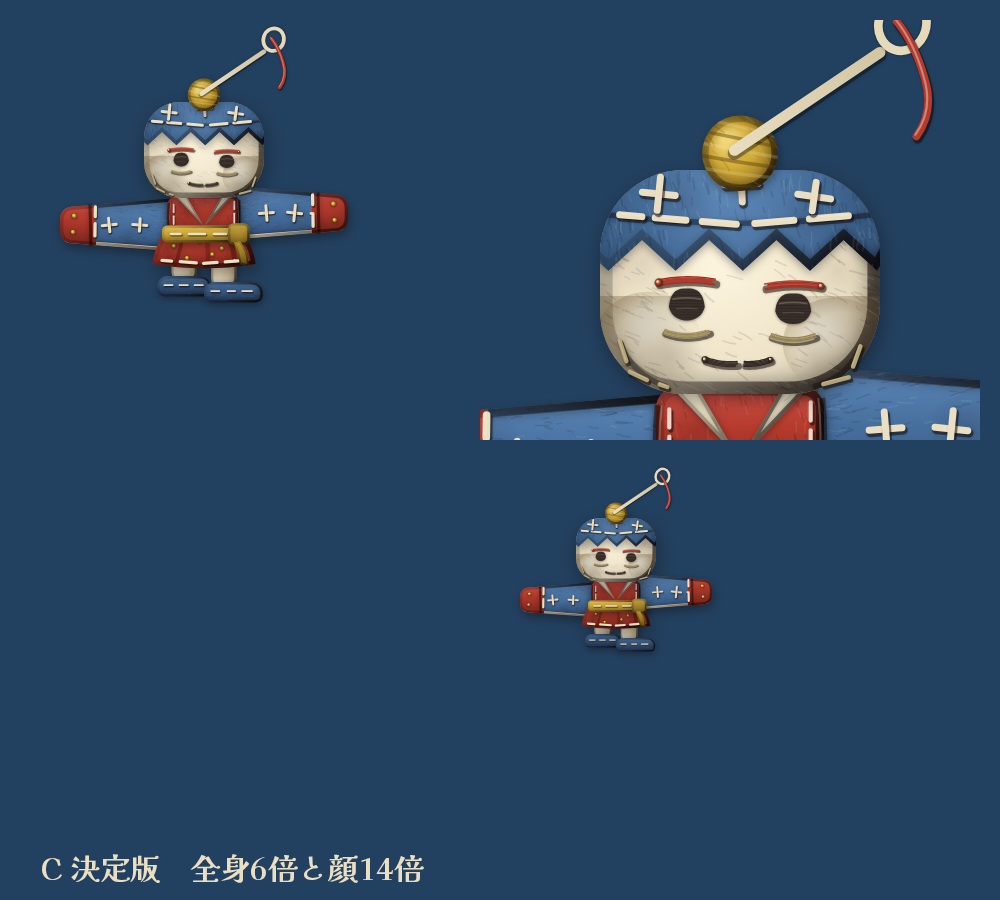
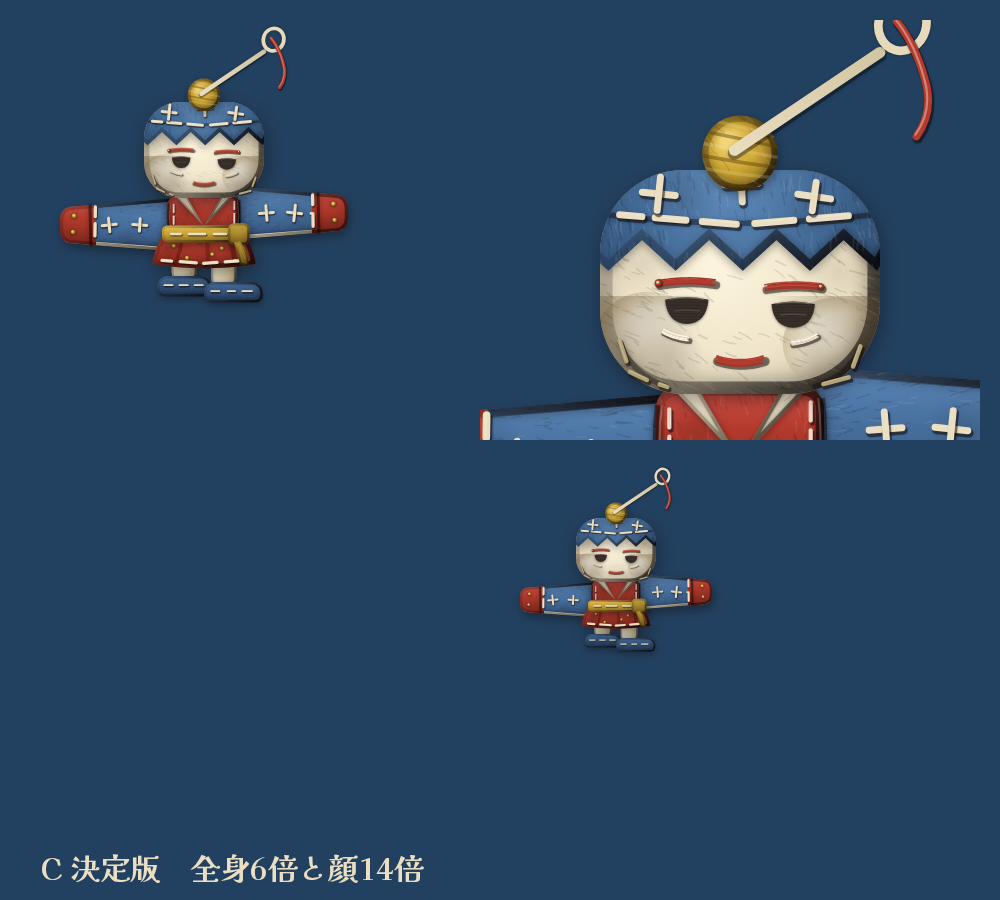
title-01: return face to owner's C with finishing fixes (revision 5)
Claude-Session: https://claude.ai/code/session_01BwCev4yJoSeeksS9CS27y6

diff --git a/studio/design-concept/notes.md b/studio/design-concept/notes.md
@@ -79,7 +79,7 @@
 - **最大のリスクは解像度の混在が安っぽく見えること**: 今回の scene-hires.png では、イガ・コナは「ピクトグラムの世界に実物のぬいぐるみが置かれた」ギャップが愛らしく読めた。ただし、ツギは袖の暗い棒が大きく、身体の布の質感が背景のドット面と並ぶと少し重い。避ける方法: (1) 影の向きと色を背景と統一する（足もとの接地影は藍濃の半透明）、(2) キャラは背景より彩度は同じで質感だけ上げ、背景に影を落とさない（ぬいが浮いて見える）、(3) 境界は一つの規則で決める（§1.6: 触れる・取れる・当たる物はぬいぐるみ層、触れない物・HUD の札と札の中のアイコンはピクト。改訂5で糸玉・つづら・ばねも高解像度にし、HUD の糸玉アイコンはピクトにそろえた）、(4) 敵がやられる演出は触れる物なのでぬいぐるみ層
 
 ## 改訂4 最終（2層・顔C）
-- 顔 C: 半月の目（上が丸く下が弧、幅1.15×高さ約1.8論理画素＝約18×14px）。糸の艶は横向きの帯だけ、斜めの光は無し。目の下に生成影の下まぶたの糸、上まぶたは茜の水平な弧。口は消炭の2針（左が長い）。決定版の顔: hires/tsugi-final-face.png
+- 顔 C: 半月の目（上が丸く下が弧、幅1.15×高さ約1.8論理画素＝約18×14px）。糸の艶は横向きの帯だけ、斜めの光は無し。目の下に生成影の下まぶたの糸、上まぶたは茜の水平な弧。口は茜の短いサテンステッチ1針。決定版の顔: hires/tsugi-final-face.png
 - 袖は根元から袖口へ細くし（厚さ9→6.2）、色は藍淡→藍濃の階調に下げて背景の藍濃との差を小さくした。茜の袖口と胴がいちばん強い赤
 - 触れる物（糸玉・つづら・ばね・結び玉）もぬいぐるみ層に移した。シルエット確認: hires/silhouette-hires.png（上段 約130px、下段 約32px）。ツギは水平の袖と簪の輪、イガは背棘3本＋尻尾、コナは三角の翼で読める
 
@@ -95,8 +95,8 @@
 - 裾のひだ（x0,y0→x1,y1, 濃さ）: (6.4,22→5.0,27.6,.38) (10.3,22→10.5,28,.28) (14,22→15.2,27.6,.40)
 - 小さな縫い物: 袖口の French knot 左 (-11.6,y中-1.5)(-11.8,y中+1.2) 付近・右 (31.6,…)、裾の小花 6か所 (5,24)(9.3,23.2)(13,24.4)(7.2,26)(11.4,25.4)(15.2,26.5)
 - 簪の針: 白い反射線は無し（生成りの平らな面＋影）。艶は糸の向きの帯だけ（目は2本の帯、他は縫い目の糸にごく薄い線）
-- 目の寸法を1つにする: **横2.6×縦2.3 論理画素（約10×9px、縦横比0.9）**。plush.md も「横1.1cm×縦1.0cm」にそろえた
-- 顔 C の仕上げ: 目の艶は2本の帯、口は中央寄り（x7.5〜12.2、水平、両端だけわずかに上がる）、眉と口はサテンステッチの糸の筋（束）と玉止め、下まぶたの糸は濃い生成影 #a89868 で等倍でも見える
+- 目の寸法を1つにする（C 最終）: **横2.8×縦1.7 論理画素（約11×7px、縦横比0.6）**。plush.md・design-concept.md §3 も「横1.1cm×縦0.6cm」にそろえた
+- 顔 C の最終（改訂5b）: 選ばれた C の半月の目（上は平ら、下は丸い）に戻した。艶は細い帯1〜2本、下まぶたは各目の外側の半分だけの短い生成りの糸（左目 x4.5〜6.3、右目 x13.7〜15.5）、口は茜の短いサテンステッチ1針（x8.3〜11.7、中央寄り、傾き弱め、玉止め無し）、眉は茜のサテンステッチ（左の始点と右の終点に玉止め）。改訂5の「丸い目・オリーブの下まぶた・口の両端の玉」は廃止（比較: hires/face-c-compare.png）
 
 ## 配置規則（改訂5）
 - コナは茜濃の反物（x178〜198、x238〜264）から 6論理画素以上離す（現在 x202〜228、藍濃の反物の前）

diff --git a/studio/design-concept.md b/studio/design-concept.md
@@ -48,7 +48,7 @@
 | ボス（大蛾ケバ等） | **大きな三角の翼＋筒の胴**、翼に文様（蛾の目玉模様を千鳥・七宝で） | 翼の縁はほつれた糸 | 敵の形の言葉を大きくしたもの |
 | 地形 | **長方形の継ぎ布**。上面は布の「耳」（織物の端）か折り返し | 角にまち針や縫い留め | 島＝縫い合わされた布 |
 - シルエットの約束: ツギは「左右に張り出した四角い袖＋頭の上の針（簪）」で、**黒塗りでも 16px でも分かる**。敵は全員、ツギの四角と逆の「筒・とがり」
-- 顔（改訂4。C 半月の目で決定。実装はぬいぐるみ層＝1280x720）: 顔布は生成りの綿ブロード。目は消炭の**半月**のサテンステッチ（横1.1cm×縦1.0cm、縦横比0.9、上が丸く下が弧）。糸の艶は糸の向き（横）に沿う帯だけで、斜めの光や点のハイライトは入れない。目の下に濃い生成影の「下まぶたの糸」の弧を1本入れ、サングラスに見えないようにする。眉と上まぶたは茜のサテンステッチ（玉止めつき）の水平な短い弧。口は消炭の2針で、顔の中央寄りに水平、両端だけわずかに上がる。頬は影でふくらませ、色や点は足さない（頬の点・赤い口の面・縦長の点目・ウィンク形・笑顔の大口は使わない）
+- 顔（C 半月の目・最終。実装はぬいぐるみ層＝1280x720）: 顔布は生成りの綿ブロード。目は消炭の**半月**のサテンステッチ（横1.1cm×縦0.6cm、縦横比0.6。上は平ら、下は丸い）。糸の艶は糸の向き（横）に沿う細い帯1〜2本だけで、斜めの光や点のハイライトは入れない。下まぶたは各目の外側の半分だけに、生成りの短い糸。眉・上まぶたは茜のサテンステッチ（玉止めつき）の水平な短い弧。口は茜の短いサテンステッチ1針で、顔の中央寄りにほぼ水平、両端だけわずかに上がる（玉は付けない）。頬は影でふくらませ、色や点は足さない（頬の点・赤い口の面・縦長の点目・ウィンク形・笑顔の大口・丸い黒い穴の目は使わない）
 - ピクト層（320x180）の顔の設計（改訂3の半月目＋面の割り）は、実装がぬいぐるみ層なので見本のみ。ドット版が必要なら半月の目・茜の水平のまぶたを引き継ぐ
 - 顔だけを12倍に拡大しても「汎用の動物」に見えないこと、黒塗り16pxでも読めること
 

diff --git a/studio/characters/tsugi/final/plush.md b/studio/characters/tsugi/final/plush.md
@@ -15,8 +15,8 @@
 素材: 綿（絣・更紗・ブロード）、フェルト（帯・草履・針穴の輪）、毛糸（髷・糸）。頭と胴は綿を詰め、袖は軽く詰めてシワを出す。
 
 刺繍
-- 目（改訂4・C 半月の目）: 黒糸（消炭）でサテンステッチ、横1.1cm×縦1.0cmの半月（縦横比0.9、上が丸く下が弧）。ハイライトの針は無し、糸の艶だけ。糸の向きは横。目の下に濃い生成影の糸で下まぶたの弧を1本（バックステッチ）。まぶた: 茜のサテンステッチの水平な短い弧（上まぶた、端は玉止め）。
-- まゆは上まぶたの茜の弧で代える（黒の2針×2は無し）。口: 消炭の2針のサテンステッチ（顔の中央寄りに水平、左が少し長い。両端だけわずかに上がる。端は玉止め）。
+- 目（C 半月の目・最終）: 黒糸（消炭）でサテンステッチ、横1.1cm×縦0.6cmの半月（上は平ら、下は丸い。縦横比0.6）。ハイライトの針は無し、糸の艶だけ（糸の向きは横、細い帯1〜2本）。下まぶた: 生成りの糸の短いバックステッチを各目の外側の半分だけ。上まぶた・まゆ: 茜のサテンステッチの水平な短い弧（端は玉止め）。
+- まゆは上まぶたの茜の弧で代える（黒の2針×2は無し）。口: 茜の短いサテンステッチ1針（顔の中央寄り、ほぼ水平で両端がわずかに上がる。玉止めは裏に隠す）。両端だけわずかに上がる。端は玉止め）。
 - 頬: 刺繍は付けない（綿のふくらみの陰影で表す。頬の3本ステッチは廃止。concept の「頬の点・線は使わない」に合わせた）。
 
 安全と縫えるかの確認
